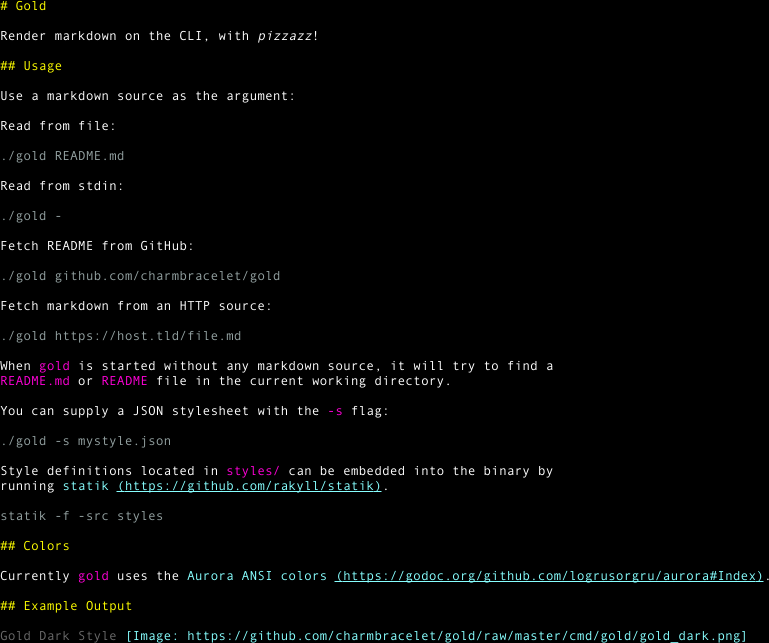
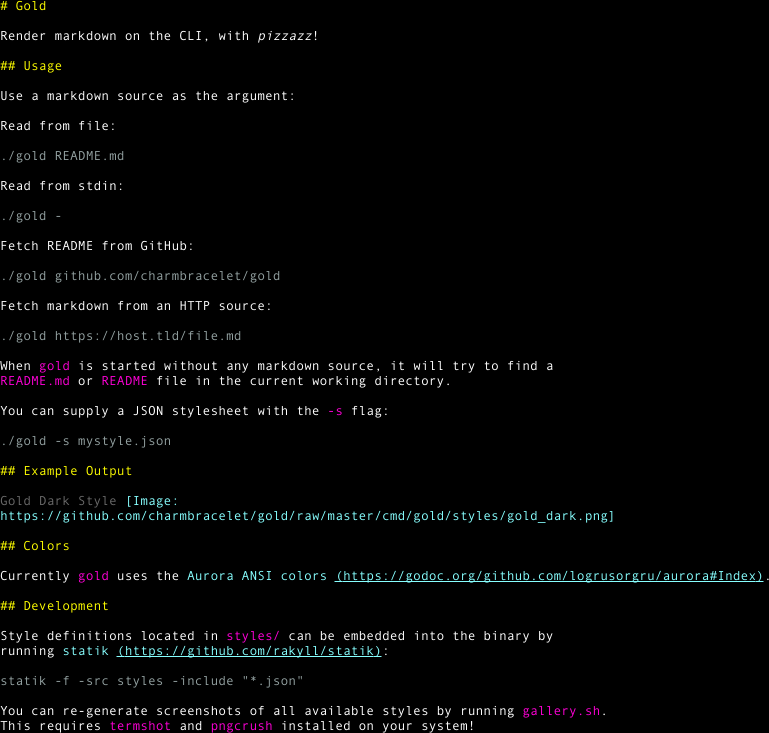
Add gallery generation script

diff --git a/README.md b/README.md
@@ -34,16 +34,21 @@ You can supply a JSON stylesheet with the `-s` flag:
 ./gold -s mystyle.json
 ```
 
-Style definitions located in `styles/` can be embedded into the binary by
-running [statik](https://github.com/rakyll/statik).
-```
-statik -f -src styles -include "*.json"
-```
+## Example Output
+
+![Gold Dark Style](https://github.com/charmbracelet/gold/raw/master/cmd/gold/styles/gold_dark.png)
 
 ## Colors
 
 Currently `gold` uses the [Aurora ANSI colors](https://godoc.org/github.com/logrusorgru/aurora#Index).
 
-## Example Output
+## Development
 
-![Gold Dark Style](https://github.com/charmbracelet/gold/raw/master/cmd/gold/styles/gold_dark.png)
+Style definitions located in `styles/` can be embedded into the binary by
+running [statik](https://github.com/rakyll/statik):
+```
+statik -f -src styles -include "*.json"
+```
+
+You can re-generate screenshots of all available styles by running `gallery.sh`.
+This requires `termshot` and `pngcrush` installed on your system!
